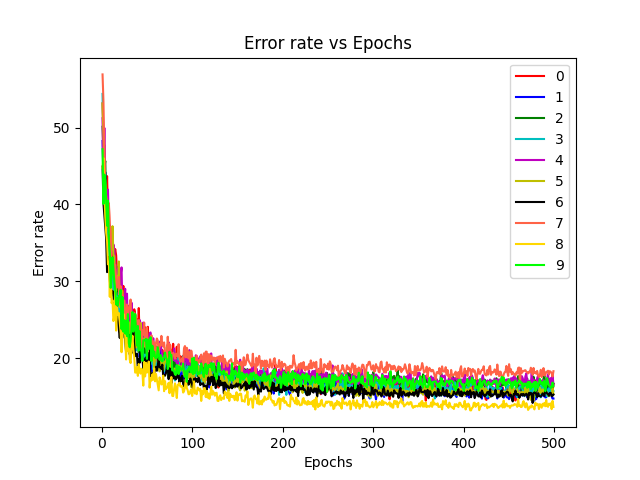
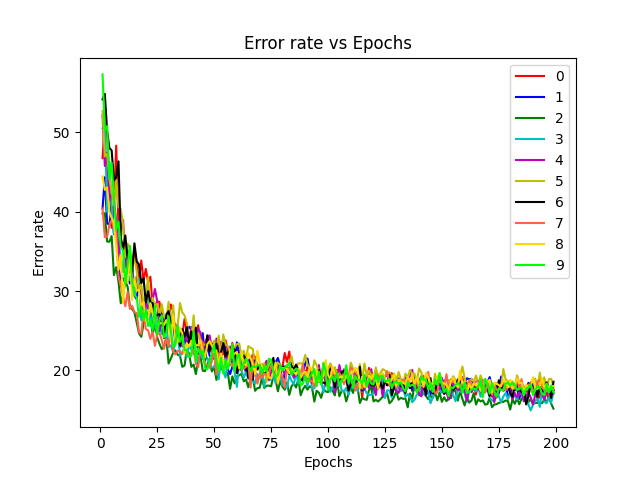
a

diff --git a/CNN_Recurrent_classifier.py b/CNN_Recurrent_classifier.py
@@ -369,7 +369,7 @@ fs = 256.0
 # dwns_factor = [fs//256.0, fs//30.0, fs//15.0, fs//10.0]
 dwns_factor = [fs//10]                           
 
-epoch = 500
+epoch = 200
 max_hidden_num = 10
 # File Directory for data
 fileDir='./Data/wrist'
@@ -457,28 +457,28 @@ for hidden in range(max_hidden_num):
 
 
         # # CNN R
-        # def forward(self, x):
-        #     x = self.layer_1(x) 
-        #     x = self.layer_2(x)
-        #     for i in range(self.hidden_layer):
-        #         x = self.layer_hidden(x)
-        #     x = self.layer_3(x)
-        #     x = self.layer_4(x)
-        #     x = x.view(x.size(0), -1)
-        #     x = self.layer_5(x)
-        #     return x
-
-        ## CNN-LSTM
-        def forward(self,x):
+        def forward(self, x):
             x = self.layer_1(x) 
             x = self.layer_2(x)
+        #     for i in range(self.hidden_layer):
+        #         x = self.layer_hidden(x)
             x = self.layer_3(x)
             x = self.layer_4(x)
-            x = x.permute(0, 2, 1)
-            x, _ = self.LSTM(x)
-            x = self.fc(x)
-            x = x[:, -1, :]
+            x = x.view(x.size(0), -1)
+            x = self.layer_5(x)
             return x
+
+        ## CNN-LSTM
+        #def forward(self,x):
+        #    x = self.layer_1(x) 
+        #    x = self.layer_2(x)
+         #   x = self.layer_3(x)
+         #   x = self.layer_4(x)
+           # x = x.permute(0, 2, 1)
+         #   x, _ = self.LSTM(x)
+          #  x = self.fc(x)
+           # x = x[:, -1, :]
+            #return x
 
 
 
